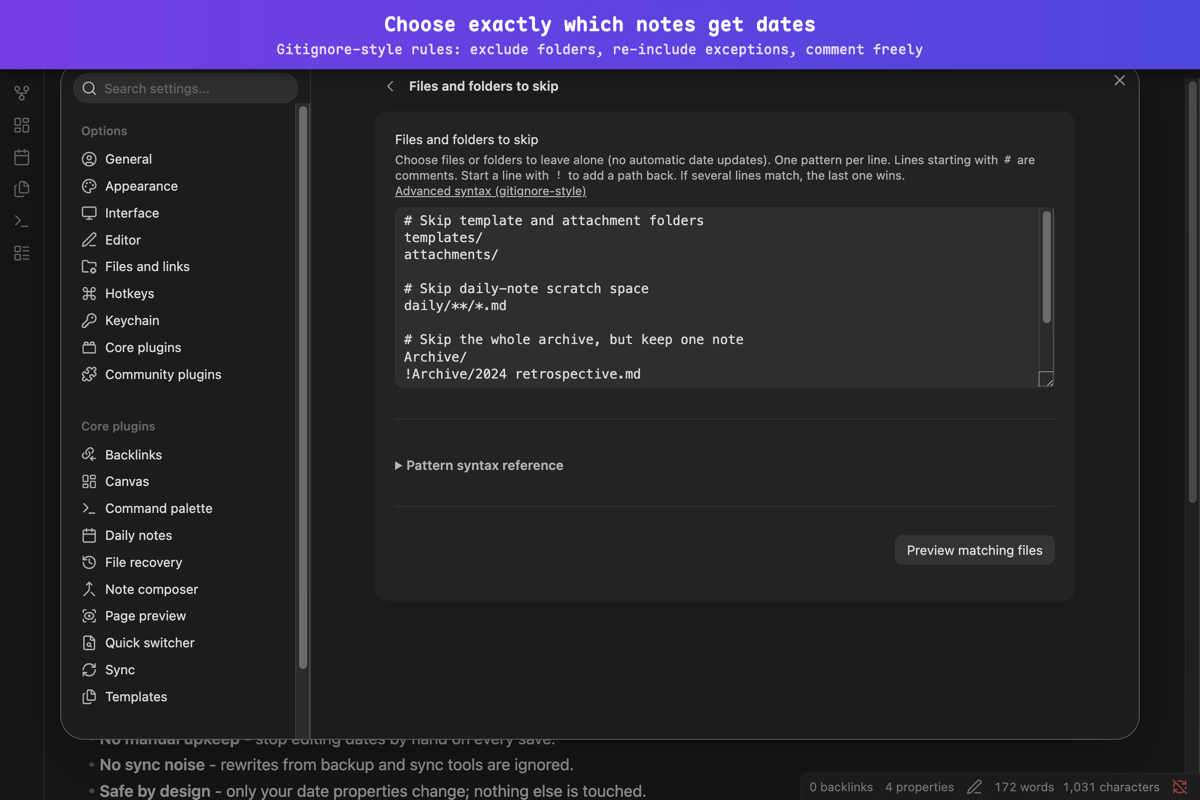
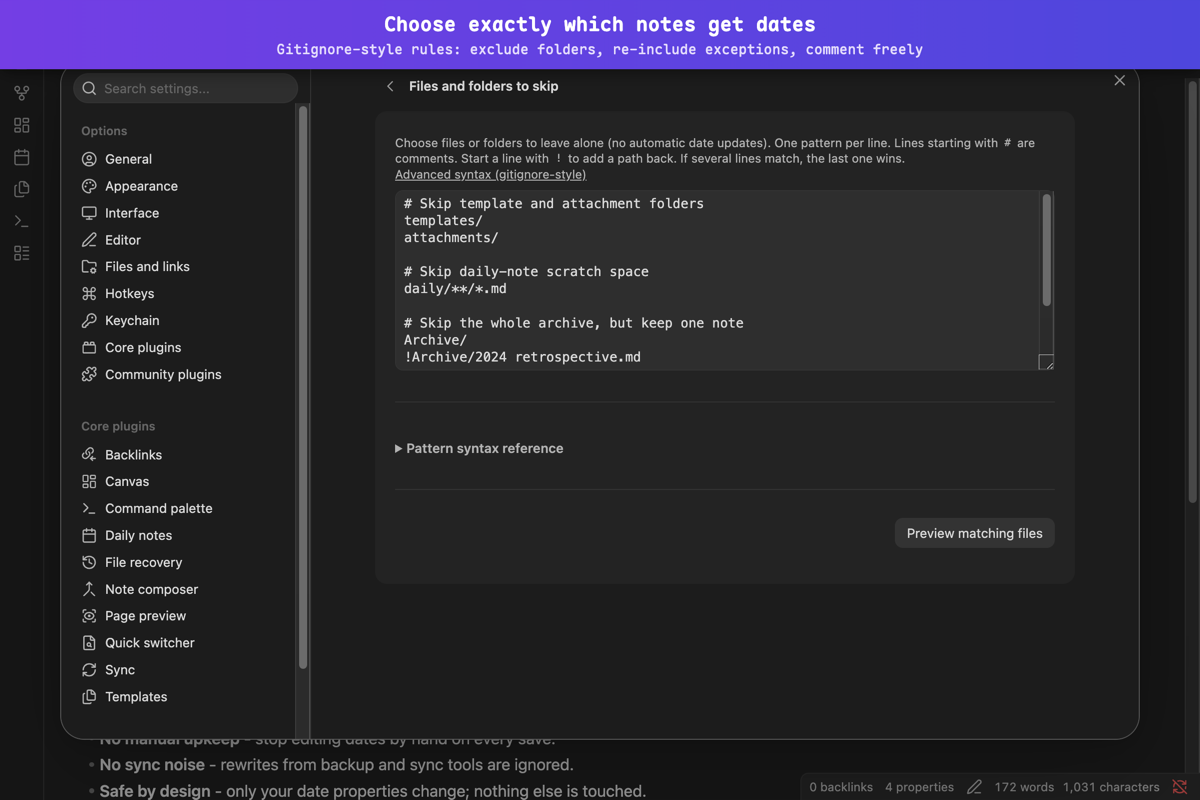
fix(settings): Polish declarative settings UI and tighten tooling checks
Three rough edges in the Obsidian 1.13 declarative settings tab only
surface once the tab is rendered:

- Blocks a render row appends to settingEl collapsed to the right of
  their row, because .setting-item is a flex row and a bare block
  shrinks to its content. Affected the intro text and the
  all-dates-off hint; fixed with an explicit width.
- The ignored-properties list rendered as an unlabeled card with no
  visible tie to the input row that feeds it. A list cannot nest in a
  group, so it now carries its own heading (translated in all 21
  locales).
- The filter sub-page printed its title twice - once in the page
  header, once as the editor row name. The row is now unnamed.

Adding the list heading broke all three settings-exclude-list e2e
specs: a declarative list renders its heading as another .setting-item,
inflating the row count. The page object now excludes it.

Also: CI type-checks the e2e specs and page objects so they cannot rot
between manual runs, and the ESLint config moves off the deprecated
typescript-eslint wrapper to defineConfig.

diff --git a/src/Settings.ts b/src/Settings.ts
@@ -526,6 +526,10 @@ export class FrontmatterDateManagerSettingsTab extends PluginSettingTab {
     return {
       type: 'list',
       cls: 'frontmatter-date-manager-exclude-list',
+      // A list cannot nest inside the behavior group, so it needs its own
+      // heading - otherwise the entries read as an orphaned card wedged
+      // between "Behavior" and the next section.
+      heading: strings.settings.behavior.excludeKeys.listHeading,
       visible: () => !this.allDatesOff() && this.excludeKeysVisible(),
       emptyState: strings.settings.behavior.excludeKeys.emptyState,
       onDelete: (index: number) => {
@@ -726,9 +730,11 @@ export class FrontmatterDateManagerSettingsTab extends PluginSettingTab {
         t(fr.ruleCount, { count: this.plugin.getCompiledRules().length }),
       items: [
         {
-          name: fr.name,
-          // The page entry already carries this name - keeping the editor row
-          // out of the search index avoids a duplicate hit for the same thing.
+          // Deliberately unnamed: the sub-page header already reads "Files and
+          // folders to skip", so repeating it on the editor row printed the
+          // same title twice on one screen. Unsearchable for the same reason -
+          // the page entry is the one search hit for this setting.
+          name: '',
           searchable: false,
           render: (setting: Setting) =>
             this.renderFilterRulesEditor(setting, shared),

diff --git a/src/__tests__/settingsTabDefinitions.test.ts b/src/__tests__/settingsTabDefinitions.test.ts
@@ -129,6 +129,11 @@ describe('getSettingDefinitions structure', () => {
     const page = (behavior.items as AnyDef[]).find((d) => d.type === 'page');
     expect(page?.name).toBe(strings.settings.filterRules.name);
     expect(page?.items).toHaveLength(3);
+    // None of the rows inside repeats the page's own title - the sub-page
+    // header already shows it, and a second copy printed it twice on screen.
+    for (const item of page?.items as AnyDef[]) {
+      expect(item.name).toBe('');
+    }
     // Rule count surfaces on the entry row without opening the page.
     expect((page?.displayValue as () => string)()).toBe('Rules: 0');
   });
@@ -385,6 +390,11 @@ describe('exclude-keys list', () => {
     }
     expect(list.emptyState).toBe(
       strings.settings.behavior.excludeKeys.emptyState,
+    );
+    // The list sits at top level (it cannot nest inside the behavior group),
+    // so its own heading is what ties the rows to the input row above.
+    expect(list.heading).toBe(
+      strings.settings.behavior.excludeKeys.listHeading,
     );
   });
 

diff --git a/e2e/pageobjects/settingsTab.ts b/e2e/pageobjects/settingsTab.ts
@@ -5,9 +5,11 @@ const PLUGIN_ID = 'frontmatter-date-manager';
 const EXCLUDE_INPUT = '.frontmatter-date-manager-exclude-input';
 const EXCLUDE_ADD = '.frontmatter-date-manager-exclude-add';
 const EXCLUDE_LIST = '.frontmatter-date-manager-exclude-list';
-// Real entries only - the list renders its empty-state placeholder as a
-// .setting-item too (with .mod-empty-state).
-const EXCLUDE_ROW = `${EXCLUDE_LIST} .setting-item:not(.mod-empty-state)`;
+// Real entries only. The list renders two non-entry rows as .setting-item too:
+// its empty-state placeholder (.mod-empty-state) and, since the list carries a
+// `heading`, the heading row (.setting-item-heading). Both must be excluded or
+// the row count is off by one.
+const EXCLUDE_ROW = `${EXCLUDE_LIST} .setting-item:not(.mod-empty-state):not(.setting-item-heading)`;
 const ROW_NAME = '.setting-item-name';
 // Delete affordance the declarative list adds to each row when onDelete is set.
 const ROW_DELETE = '.clickable-icon';

diff --git a/src/i18n/locales/th.ts b/src/i18n/locales/th.ts
@@ -157,6 +157,7 @@ export const STRINGS_TH: Strings = {
         desc: 'การแก้ไขคุณสมบัติเหล่านี้จะไม่อัปเดตวันที่ คุณสามารถเพิ่มหลายรายการพร้อมกันได้โดยคั่นด้วยจุลภาค คุณสมบัติ created, updated และ viewed จะถูกละเว้นโดยอัตโนมัติเสมอ',
         placeholder: 'ชื่อคุณสมบัติ เช่น tags',
         addTooltip: 'เพิ่มคุณสมบัติ',
+        listHeading: 'พร็อพเพอร์ตี้ที่ถูกละเว้น',
         emptyState: 'ไม่มีพร็อพเพอร์ตี้ที่ถูกละเว้น',
       },
     },

diff --git a/styles.css b/styles.css
@@ -4,6 +4,11 @@
 
 /* Plugin description block at the top of settings */
 .frontmatter-date-manager-plugin-description {
+    /* Rendered as a child of a .setting-item, which is a flex row - without an
+       explicit width the block shrinks to its content and is pushed to the
+       right by the row's empty .setting-item-info. Same fix as the filter
+       reference below. */
+    width: 100%;
     color: var(--text-muted);
     font-size: var(--font-smaller);
     line-height: 1.6;
@@ -24,6 +29,9 @@
 
 /* Hint when both timestamp toggles are off */
 .frontmatter-date-manager-hint-message {
+    /* Full width for the same reason as the description block above: the
+       parent .setting-item is a flex row with an empty info column. */
+    width: 100%;
     color: var(--text-muted);
     font-size: var(--font-smaller);
     font-style: italic;

diff --git a/src/i18n/locales/fa.ts b/src/i18n/locales/fa.ts
@@ -159,6 +159,7 @@ export const STRINGS_FA: Strings = {
         desc: 'ویرایش این ویژگیها تاریخ را بهروز نمیکند. میتوانید چند مورد را یکجا با جداکردن آنها با ویرگول اضافه کنید. ویژگیهای created، updated و viewed همیشه بهطور خودکار نادیده گرفته میشوند.',
         placeholder: 'نام ویژگی مانند tags',
         addTooltip: 'افزودن ویژگی',
+        listHeading: 'ویژگیهای نادیدهگرفتهشده',
         emptyState: 'هیچ ویژگی نادیدهگرفتهشدهای وجود ندارد.',
       },
     },

diff --git a/src/i18n/locales/uk.ts b/src/i18n/locales/uk.ts
@@ -160,6 +160,7 @@ export const STRINGS_UK: Strings = {
         desc: 'Редагування цих властивостей не оновлюватиме дату. Можна додати кілька одразу через кому. Властивості created, updated і viewed завжди ігноруються автоматично.',
         placeholder: "Ім'я властивості, наприклад tags",
         addTooltip: 'Додати властивість',
+        listHeading: 'Ігноровані властивості',
         emptyState: 'Немає ігнорованих властивостей.',
       },
     },

diff --git a/src/i18n/locales/ru.ts b/src/i18n/locales/ru.ts
@@ -164,6 +164,7 @@ export const STRINGS_RU: Strings = {
         desc: 'Редактирование этих свойств не будет обновлять дату. Можно добавить несколько сразу через запятую. Свойства created, updated и viewed всегда игнорируются автоматически.',
         placeholder: 'Имя свойства, например tags',
         addTooltip: 'Добавить свойство',
+        listHeading: 'Игнорируемые свойства',
         emptyState: 'Нет игнорируемых свойств.',
       },
     },

diff --git a/src/i18n/locales/en.ts b/src/i18n/locales/en.ts
@@ -163,6 +163,10 @@ export const STRINGS_EN = {
         desc: 'Editing these properties will not update the date. You can add several at once, separated by commas. The created, updated, and viewed properties are always ignored automatically.',
         placeholder: 'Property name like tags',
         addTooltip: 'Add property',
+        // Heading above the native list. The list cannot nest inside the
+        // behavior group, so without it the entries render as an unlabeled
+        // card with no visible tie to the input row above.
+        listHeading: 'Ignored properties',
         emptyState: 'No ignored properties.',
       },
     },

diff --git a/src/i18n/locales/ar.ts b/src/i18n/locales/ar.ts
@@ -156,6 +156,7 @@ export const STRINGS_AR: Strings = {
         desc: 'تعديل هذه الخصائص لن يحدّث التاريخ. يمكنك إضافة عدة خصائص دفعة واحدة مفصولة بفواصل. تُتجاهَل الخصائص created وupdated وviewed دائمًا تلقائيًا.',
         placeholder: 'اسم خاصية مثل tags',
         addTooltip: 'إضافة خاصية',
+        listHeading: 'الخصائص المتجاهَلة',
         emptyState: 'لا توجد خصائص متجاهَلة.',
       },
     },

diff --git a/src/i18n/locales/ja.ts b/src/i18n/locales/ja.ts
@@ -164,6 +164,7 @@ export const STRINGS_JA: Strings = {
         desc: 'これらのプロパティを編集しても日付は更新されません。カンマで区切って一度に複数追加できます。created、updated、viewed のプロパティは常に自動的に無視されます。',
         placeholder: 'プロパティ名 (例: tags)',
         addTooltip: 'プロパティを追加',
+        listHeading: '無視するプロパティ',
         emptyState: '無視しているプロパティはありません。',
       },
     },

diff --git a/src/i18n/locales/vi.ts b/src/i18n/locales/vi.ts
@@ -158,6 +158,7 @@ export const STRINGS_VI: Strings = {
         desc: 'Chỉnh sửa các thuộc tính này sẽ không cập nhật ngày. Bạn có thể thêm nhiều thuộc tính cùng lúc, cách nhau bằng dấu phẩy. Các thuộc tính created, updated và viewed luôn được bỏ qua tự động.',
         placeholder: 'Tên thuộc tính như tags',
         addTooltip: 'Thêm thuộc tính',
+        listHeading: 'Thuộc tính bị bỏ qua',
         emptyState: 'Không có thuộc tính nào bị bỏ qua.',
       },
     },
